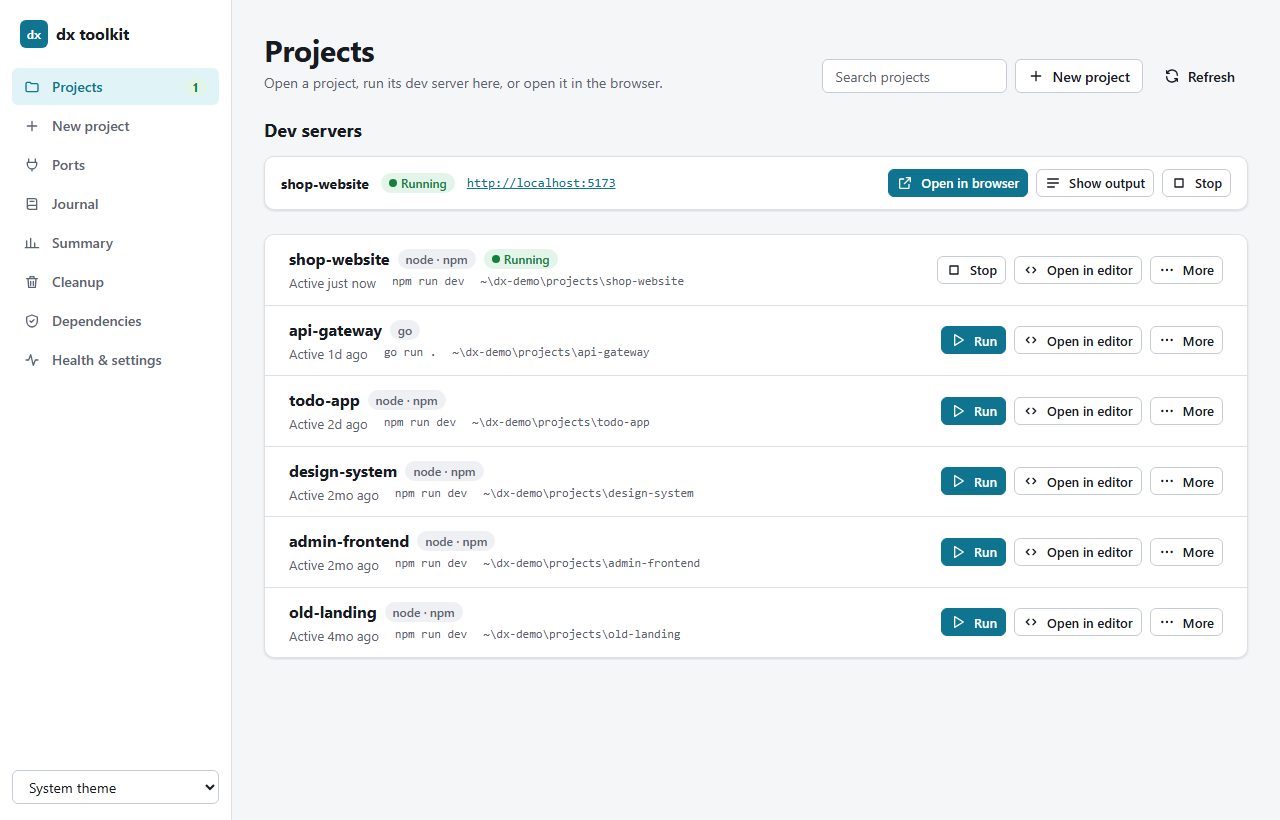
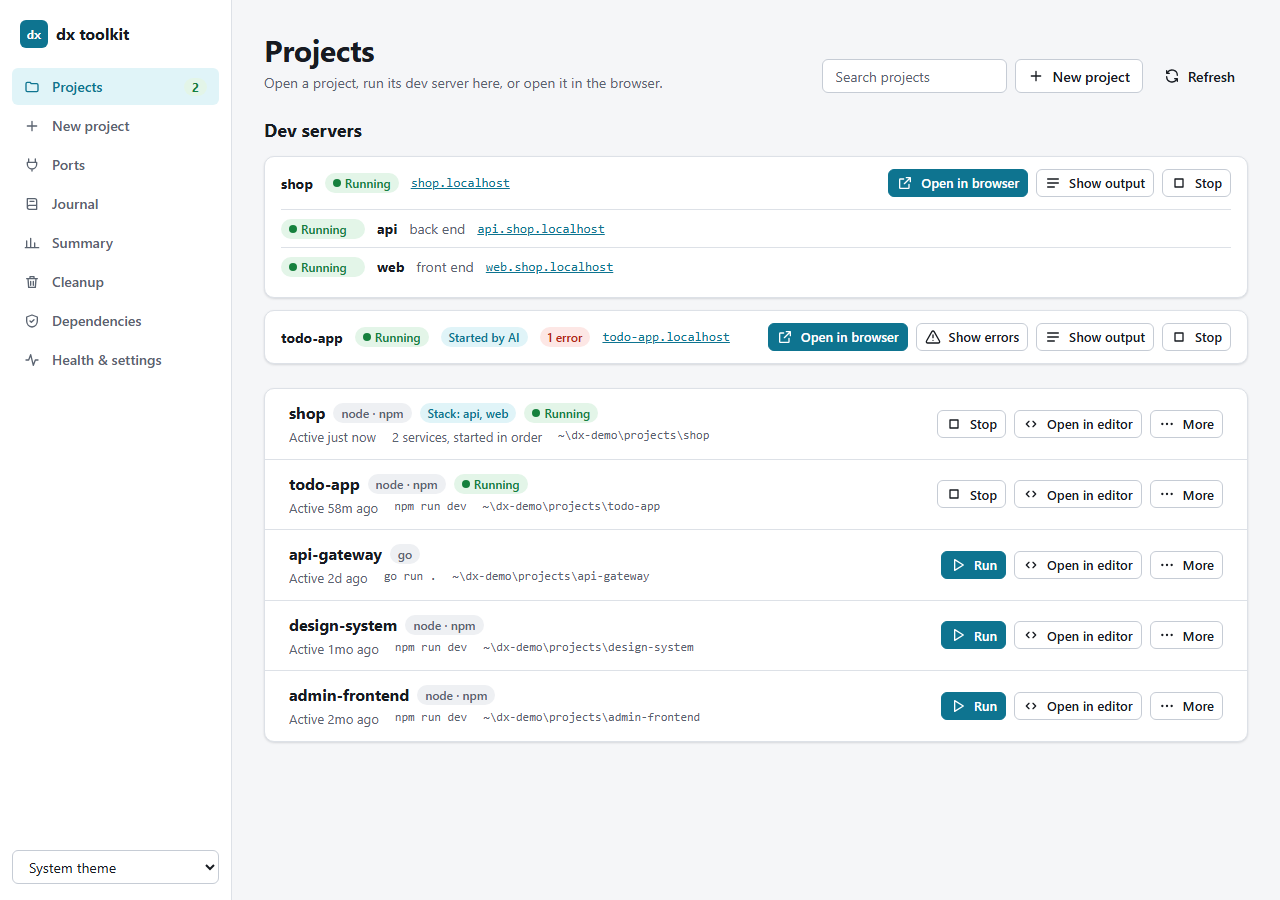
Release 0.2.0 and publish as dxkit on npm
The release script builds one package with the dashboard, MCP server and
core bundled inside the CLI, so npm install -g dxkit gives everything.
A smoke test installs that package globally into a temporary folder and
runs dx, the background dashboard and the MCP server; CI runs both on
every system. README install steps, paths and screenshots now follow
the npm install.

diff --git a/packages/mcp/src/index.ts b/packages/mcp/src/index.ts
@@ -2,6 +2,7 @@
 // MCP server: lets Claude (Desktop, Code) and Raycast AI call your dx tools.
 // It talks over stdin/stdout, so nothing here may print to stdout except the protocol.
 
+import { readFileSync } from "node:fs";
 import { McpServer } from "@modelcontextprotocol/sdk/server/mcp.js";
 import { StdioServerTransport } from "@modelcontextprotocol/sdk/server/stdio.js";
 import { z } from "zod";
@@ -34,7 +35,8 @@ import {
 } from "@dx/core";
 import { ensureDashboard, findDashboard, type DashboardClient } from "@dx/web/link";
 
-const server = new McpServer({ name: "dx", version: "0.1.0" });
+const { version } = JSON.parse(readFileSync(new URL("../package.json", import.meta.url), "utf8")) as { version: string };
+const server = new McpServer({ name: "dx", version });
 
 const text = (value: unknown) => ({
   content: [{ type: "text" as const, text: typeof value === "string" ? value : JSON.stringify(value, null, 2) }],

diff --git a/README.md b/README.md
@@ -6,7 +6,7 @@ Your projects, dev servers, ports, work journal and weekly summary in one place:
 
 <picture>
   <source media="(prefers-color-scheme: light)" srcset="docs/images/projects-light.png">
-  <img alt="The dx dashboard's Projects page: six projects with Run, Open in editor and More buttons, and a running dev server for shop-website at localhost:5173." src="docs/images/projects.png">
+  <img alt="The dx dashboard's Projects page: a running stack called shop, with its api and web services at api.shop.localhost and web.shop.localhost; a todo-app dev server marked Started by AI with 1 error; and the project list below." src="docs/images/projects.png">
 </picture>
 
 Each tool is written once in `packages/core` and can be used four ways:
@@ -37,12 +37,11 @@ Everything dx stores is in one folder: `~/.dx` (`C:\Users\<you>\.dx`).
 dx runs on **Windows, macOS and Linux**. You need **Node 22 or newer** (`node -v`) and git. Then, in a terminal (PowerShell on Windows):
 
 ```bash
-git clone <this repository's URL> dx-toolkit
-cd dx-toolkit
-npm install
-npm run build
-npm run link      # puts the `dx` command on your PATH
-dx ui             # opens the dashboard
+npm install -g dxkit
+```
+
+```bash
+dx ui
 ```
 
 That's all. The first time you use dx it sets itself up:
@@ -52,11 +51,15 @@ That's all. The first time you use dx it sets itself up:
 
 Projects somewhere else? `dx config add-root <folder>`, or add the folder on the dashboard's Health page. `dx doctor` checks everything and says how to fix what isn't right; your AI tool can run the fixes for you (ask it to "check dx's setup").
 
-- **macOS and Linux**: if `npm run link` fails with a permissions error, your global npm folder belongs to root. Use a Node version manager (nvm, fnm, Volta) rather than `sudo`.
+- **macOS and Linux**: if `npm install -g` fails with a permissions error, your global npm folder belongs to root. Use a Node version manager (nvm, fnm, Volta) rather than `sudo`.
 - **Linux**: `dx port` and `dx kill` need `lsof` (`sudo apt install lsof` or your distro's equivalent). Copying a summary needs `wl-copy` or `xclip`, and "open in a terminal window" uses `x-terminal-emulator`.
 - **macOS**: "open in a terminal window" uses Terminal.app; the first time, macOS asks whether your terminal may control it.
 
-> If you switch Node versions with nvm, run `npm run link` again on the new version.
+> If you switch Node versions with nvm, install dx again on the new version; dx repoints your AI tools at it the next time the dashboard starts.
+
+**Updating**: `npm install -g dxkit@latest`. **Removing**: `dx setup --undo` (takes dx out of your AI tools), then `npm uninstall -g dxkit`; your settings and journal stay in `~/.dx`.
+
+**From source**, to change dx itself: clone this repository, then run `npm install`, `npm run build` and `npm run link` in it. [CONTRIBUTING.md](CONTRIBUTING.md) has the rest.
 
 ---
 
@@ -176,13 +179,13 @@ dx up shop
 - **Where the time went**: per project, the days you committed or opened it with `dx go`, and how long its dev server ran when `dx go` ran it in the same terminal.
 - **Not committed yet**: projects active in the period with changes you haven't committed. It's a reminder for you; delete the section before sending if you like.
 
-**Every Thursday, automatically:** these save the summary at 4 pm each Thursday. Run them from the `dx-toolkit` folder, after `npm run build`, so they pick up the right paths. The file lands in `~/.dx/summaries/<date>.md`, and `dx runs` shows whether it ran.
+**Every Thursday, automatically:** these save the summary at 4 pm each Thursday. Run them once, after installing dx; they find where npm put it. The file lands in `~/.dx/summaries/<date>.md`, and `dx runs` shows whether it ran.
 
 <details>
 <summary><b>Windows</b>: Task Scheduler. If the computer is off or asleep at 4 pm, it runs as soon as it's back on.</summary>
 
 ```powershell
-$script   = Join-Path $PWD "packages\cli\dist\index.js"
+$script   = Join-Path (npm root -g) "dxkit\dist\index.js"
 $action   = New-ScheduledTaskAction -Execute (Get-Command node).Source -Argument "`"$script`" summary --save"
 $trigger  = New-ScheduledTaskTrigger -Weekly -DaysOfWeek Thursday -At 4pm
 $settings = New-ScheduledTaskSettingsSet -StartWhenAvailable
@@ -203,7 +206,7 @@ cat > ~/Library/LaunchAgents/dev.dx.weekly-summary.plist <<EOF
   <key>Label</key><string>dev.dx.weekly-summary</string>
   <key>ProgramArguments</key><array>
     <string>$(command -v node)</string>
-    <string>$PWD/packages/cli/dist/index.js</string>
+    <string>$(npm root -g)/dxkit/dist/index.js</string>
     <string>summary</string><string>--save</string>
   </array>
   <key>StartCalendarInterval</key><dict>
@@ -227,7 +230,7 @@ mkdir -p ~/.config/systemd/user
 cat > ~/.config/systemd/user/dx-summary.service <<EOF
 [Service]
 Type=oneshot
-ExecStart="$(command -v node)" "$PWD/packages/cli/dist/index.js" summary --save
+ExecStart="$(command -v node)" "$(npm root -g)/dxkit/dist/index.js" summary --save
 EOF
 cat > ~/.config/systemd/user/dx-summary.timer <<EOF
 [Timer]
@@ -241,7 +244,7 @@ systemctl --user daemon-reload
 systemctl --user enable --now dx-summary.timer
 ```
 
-`systemctl --user list-timers` shows when it runs next. To remove it: `systemctl --user disable --now dx-summary.timer`, then delete the two files. Without systemd, a crontab line does the same, but skips a week the computer was off: `0 16 * * 4 "$(command -v node)" "$PWD/packages/cli/dist/index.js" summary --save` (write the two paths out in full; cron doesn't run `$(…)` for you).
+`systemctl --user list-timers` shows when it runs next. To remove it: `systemctl --user disable --now dx-summary.timer`, then delete the two files. Without systemd, a crontab line does the same, but skips a week the computer was off: `0 16 * * 4 "$(command -v node)" "$(npm root -g)/dxkit/dist/index.js" summary --save` (write the two paths out in full; cron doesn't run `$(…)` for you).
 </details>
 
 **`dx clean` details:**
@@ -315,7 +318,7 @@ A folder counts as a project when it has a `package.json`, `go.mod`, `Cargo.toml
 
 ## Raycast
 
-Needs [Raycast for Windows](https://www.raycast.com) installed and running, and `npm run build` done first.
+Works from a source checkout (see Setup). Needs [Raycast for Windows](https://www.raycast.com) installed and running, and `npm run build` done first.
 
 ```powershell
 npm run raycast:install
@@ -370,23 +373,25 @@ Then you can say things like "free port 3000 and start todo-app" or "write my st
 
 ### Connecting by hand
 
-Only needed for a tool dx doesn't know, such as Raycast AI. The server is `node /path/to/dx-toolkit/packages/mcp/dist/index.js` (on Windows in JSON, for example `C:\\Users\\you\\dx-toolkit\\…`). For reference, this is what `dx setup` writes for Claude Desktop in `claude_desktop_config.json` (`%APPDATA%\Claude\` on Windows, `~/Library/Application Support/Claude/` on macOS):
+Only needed for a tool dx doesn't know, such as Raycast AI. The server is the `dx-mcp` command. For apps that don't see your PATH, run it with Node instead: `node <global folder>/dxkit/node_modules/@dx/mcp/dist/index.js`, where `npm root -g` prints the global folder. In JSON on Windows, double the backslashes. From a source checkout, it's `packages/mcp/dist/index.js`.
+
+For reference, this is what `dx setup` writes for Claude Desktop in `claude_desktop_config.json` (`%APPDATA%\Claude\` on Windows, `~/Library/Application Support/Claude/` on macOS):
 
 ```json
 {
   "mcpServers": {
     "dx": {
-      "command": "node",
-      "args": ["/path/to/dx-toolkit/packages/mcp/dist/index.js"]
+      "command": "/usr/local/bin/node",
+      "args": ["/usr/local/lib/node_modules/dxkit/node_modules/@dx/mcp/dist/index.js"]
     }
   }
 }
 ```
 
-And for Claude Code, run from the `dx-toolkit` folder:
+And for Claude Code:
 
 ```bash
-claude mcp add -s user dx -- node "$PWD/packages/mcp/dist/index.js"
+claude mcp add -s user dx -- node "$(npm root -g)/dxkit/node_modules/@dx/mcp/dist/index.js"
 ```
 
 **Raycast AI**: add an MCP server in Raycast with the same command (`node`) and path.
@@ -433,6 +438,34 @@ The full backlog is in [docs/MEMORY.md](docs/MEMORY.md).
 - **`dx` not found after `npm run link`**: open a new terminal. If it still isn't found, check that the folder `npm prefix -g` prints is on your PATH.
 - **Editor doesn't open**: run `dx doctor`, then set the editor with `dx config editor "C:\Path\To\Editor.exe"`.
 - **Debug output**: set `DX_DEBUG=1` to print full error stacks.
+
+## Releasing
+
+For maintainers:
+1. Move the CHANGELOG's *Unreleased* notes under a new version, and bump `version` in every `package.json`.
+2. Build and check the package:
+
+   ```bash
+   npm run release
+   ```
+
+   This puts it in `release/` and packs it.
+
+3. Install that package into a temporary folder and try it:
+
+   ```bash
+   node scripts/smoke-package.mjs
+   ```
+
+4. Publish, after `npm login`:
+
+   ```bash
+   npm publish ./release
+   ```
+
+5. Tag `vX.Y.Z` and draft a GitHub release from the CHANGELOG.
+
+CI runs steps 2 and 3 on every push.
 
 ## Contributing
 

diff --git a/CHANGELOG.md b/CHANGELOG.md
@@ -4,8 +4,13 @@ Notable changes to dx, newest first. The format follows [Keep a Changelog](https
 
 ## Unreleased
 
+## 0.2.0 (2026-11-03)
+
+Your AI coding agent can now run your app and see what it does, whole stacks start with one command at readable `.localhost` addresses, and nothing needs setting up. Install it with `npm install -g dxkit`.
+
 ### Added
 
+- **Published on npm as `dxkit`**: one global install gives the `dx` command, the dashboard and the MCP server.
 - **Stacks**: a project's front end, API, workers and databases start together, in order, with one command or button (`dx up`, `dx go`, Run, or an AI agent's `start_dev_server`).
   - **Found with no configuration** from:
     - Procfiles;
@@ -26,7 +31,6 @@ Notable changes to dx, newest first. The format follows [Keep a Changelog](https
 - **`dx up` and `dx down`** start and stop a stack in the background.
 - **`dx doctor`** checks Docker (when a stack needs it) and whether local domains got port 80, with fixes.
 - **Project detection**: projects with only a Gemfile, a Procfile or a compose file are found too.
-
 - **AI agents can run your app and see what it does.** Nine new MCP tools:
   - `start_dev_server` waits until the app is ready and reports its URL, errors and output.
   - `wait_for_rebuild` says whether an edit added or fixed errors.
